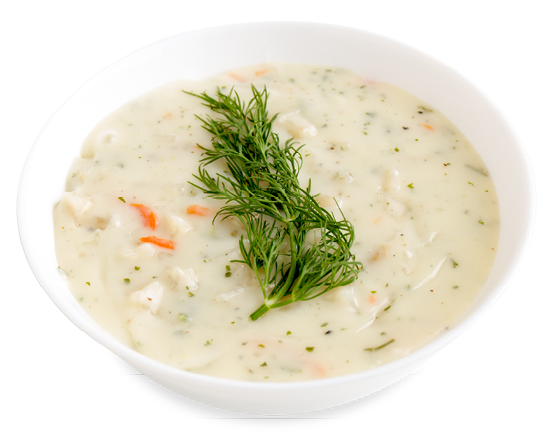
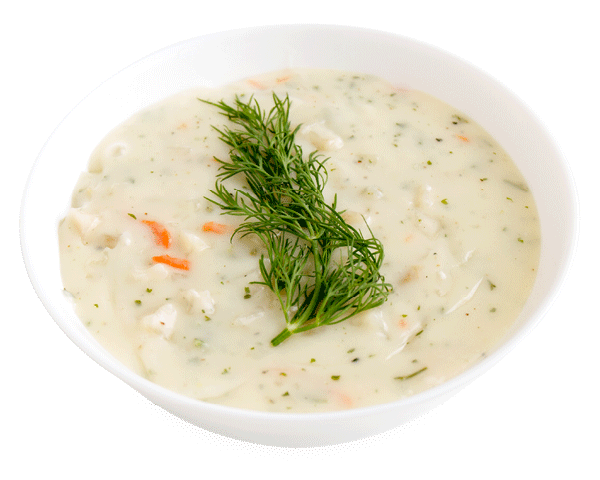
updated images to more compressed versions

diff --git a/index.html b/index.html
@@ -21,7 +21,7 @@
       </div>
 
       <div class="product-box">
-        <div class="product-image"><img src="images/Mission-Ready-Pouch-hiRES.png" alt="packaging" width="325" alt="Mission-Ready 72 Hour Emergency Meal Kit"></div>
+        <div class="product-image"><img src="images/Mission-Ready-Pouch-hiRES.jpg" alt="packaging" width="325" alt="Mission-Ready 72 Hour Emergency Meal Kit"></div>
         <div class="food-box">
             <div class="food-item" id="item-1">
               <img src="images/Brown-Sugar-Oatmeal-hiRES.png" alt="Brown Sugar Oatmeal" width="145">
